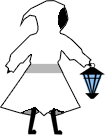
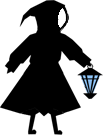
animations

diff --git a/src/scene.js b/src/scene.js
@@ -21,6 +21,12 @@ class scene extends Phaser.Scene {
         this.load.image('Prev', 'assets/images/Prev.png');
 
 
+        this.load.spritesheet('walk','assets/images/anim/walk.png',{frameWidth: 130, frameHeight: 140});
+        this.load.spritesheet('idle','assets/images/anim/idle.png',{frameWidth: 130, frameHeight: 140});
+        this.load.spritesheet('jump','assets/images/anim/jump.png',{frameWidth: 130, frameHeight: 140});
+        this.load.spritesheet('brandir','assets/images/anim/brandir.png',{frameWidth: 130, frameHeight: 140});
+        this.load.spritesheet('trou','assets/images/anim/trou.png',{frameWidth: 150, frameHeight: 150});
+
         // Load the export Tiled JSON
         this.load.tilemapTiledJSON('map', 'assets/tilemaps/tableauTiled1.json');
     }
@@ -28,9 +34,15 @@ class scene extends Phaser.Scene {
 
     create() {
 
-
-
-
+        this.anims.create({
+            key: 'trou',
+            frames: this.anims.generateFrameNames('trou', {
+                start: 0,
+                end: 19,
+            }),
+            frameRate: 10,
+            repeat:-1,
+        });
 
         const backgroundImage = this.add.image(0, 0, 'background').setOrigin(0, 0);
         backgroundImage.setScale(1, 0.8);
@@ -196,6 +208,7 @@ class scene extends Phaser.Scene {
         });
         map.getObjectLayer('TrousN').objects.forEach((TrouN) => {
             this.TrouNSprite = this.TrouN.create(TrouN.x, TrouN.y- TrouN.height, 'TrouN').setOrigin(0);
+            this.TrouNSprite.play('trou');
         });
         this.physics.add.collider(this.player.player, this.TrouN, this.playerHit, null, this);
         this.physics.add.collider(this.player2.player2, this.TrouN, this.playerHit, null, this);
@@ -206,6 +219,7 @@ class scene extends Phaser.Scene {
         });
         map.getObjectLayer('TrousN2').objects.forEach((TrouN2) => {
             this.TrouN2Sprite = this.TrouN2.create(TrouN2.x, TrouN2.y- TrouN2.height, 'TrouN').setOrigin(0);
+            this.TrouN2Sprite.play('trou');
         });
         this.physics.add.collider(this.player.player, this.TrouN2, this.playerHit, null, this);
         this.physics.add.collider(this.player2.player2, this.TrouN2, this.playerHit, null, this);
@@ -216,6 +230,7 @@ class scene extends Phaser.Scene {
         });
         map.getObjectLayer('TrousN3').objects.forEach((TrouN3) => {
             this.TrouN3Sprite = this.TrouN3.create(TrouN3.x, TrouN3.y- TrouN3.height, 'TrouN').setOrigin(0);
+            this.TrouN3Sprite.play('trou');
         });
         this.physics.add.collider(this.player.player, this.TrouN3, this.playerHit, null, this);
         this.physics.add.collider(this.player2.player2, this.TrouN3, this.playerHit, null, this);
@@ -226,6 +241,7 @@ class scene extends Phaser.Scene {
         });
         map.getObjectLayer('TrousN4').objects.forEach((TrouN4) => {
             this.TrouN4Sprite = this.TrouN4.create(TrouN4.x, TrouN4.y- TrouN4.height, 'TrouN').setOrigin(0);
+            this.TrouN4Sprite.play('trou');
         });
         this.physics.add.collider(this.player.player, this.TrouN4, this.playerHit, null, this);
         this.physics.add.collider(this.player2.player2, this.TrouN4, this.playerHit, null, this);

diff --git a/src/Player.js b/src/Player.js
@@ -10,29 +10,42 @@ class Player {
         this.scene.physics.add.collider(this.player, this.scene.platforms);
         this.player.compteur = 0;
 
-       /** this.scene.anims.create({
+       this.scene.anims.create({
             key: 'walk',
-            frames: this.scene.anims.generateFrameNames('player', {
-                prefix: 'robo_player_',
-                start: 2,
-                end: 3,
+            frames: this.scene.anims.generateFrameNames('walk', {
+                start: 0,
+                end: 8,
             }),
             frameRate: 10,
             repeat: -1
         });
         this.scene.anims.create({
             key: 'idle',
-            frames: [{key: 'player', frame: 'robo_player_0'}],
-            frameRate: 10,
-
+            frames: this.scene.anims.generateFrameNames('idle', {
+                start: 0,
+                end: 4,
+            }),
+            frameRate: 6,
+            repeat: -1
         });
         this.scene.anims.create({
             key: 'jump',
-            frames: [{key: 'player', frame: 'robo_player_1'}],
+            frames: this.scene.anims.generateFrameNames('jump', {
+                start: 0,
+                end: 6,
+            }),
             frameRate: 10,
-            repeat:-1,
-
-        });*/
+            repeat:0,
+        });
+        this.scene.anims.create({
+            key: 'brandir',
+            frames: this.scene.anims.generateFrameNames('brandir', {
+                start: 0,
+                end: 4,
+            }),
+            frameRate: 6,
+            repeat: -1
+        });
     }
 
     getKey(player,FF){
@@ -43,25 +56,25 @@ class Player {
 
     jump(){
         this.player.setVelocityY(-420);
-       /** this.player.play('jump', true);*/
+       this.player.play('jump', true);
     }
     moveRight(){
         this.player.setVelocityX(300);
         this.player.setFlipX(false);
-        /**if (this.player.body.onFloor()) {
-            this.player.play('walk', true)}*/
+        if (this.player.body.onFloor()) {
+            this.player.play('walk', true)}
     }
     moveLeft(){
         this.player.setVelocityX(-300);
-        /**if (this.player.body.onFloor()) {
-            this.player.play('walk', true)}*/
+        if (this.player.body.onFloor()) {
+            this.player.play('walk', true)}
         this.player.setFlipX(true);
     }
     stop(){
         this.player.setVelocityX(0);
-        /**if (this.player.body.onFloor()) {
+        if (this.player.body.onFloor()) {
             this.player.play('idle',true)
-        }*/
+        }
     }
 
     move(){
@@ -75,6 +88,10 @@ class Player {
                 break;
             case this.scene.cursors.space.isUp && this.scene.cursors.right.isDown:
                 this.moveRight();
+                break;
+            case this.scene.cursors.space.isDown:
+                this.player.setVelocityX(0);
+                this.player.play('brandir',true)
                 break;
             default:
                 this.stop();
